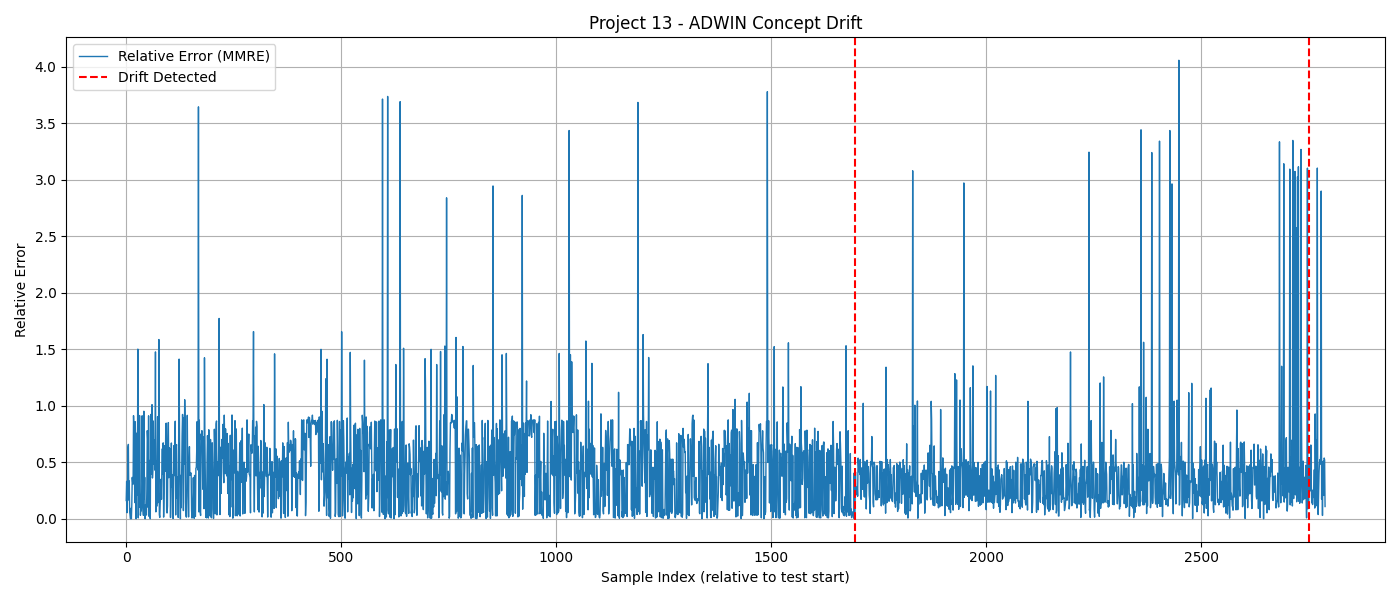
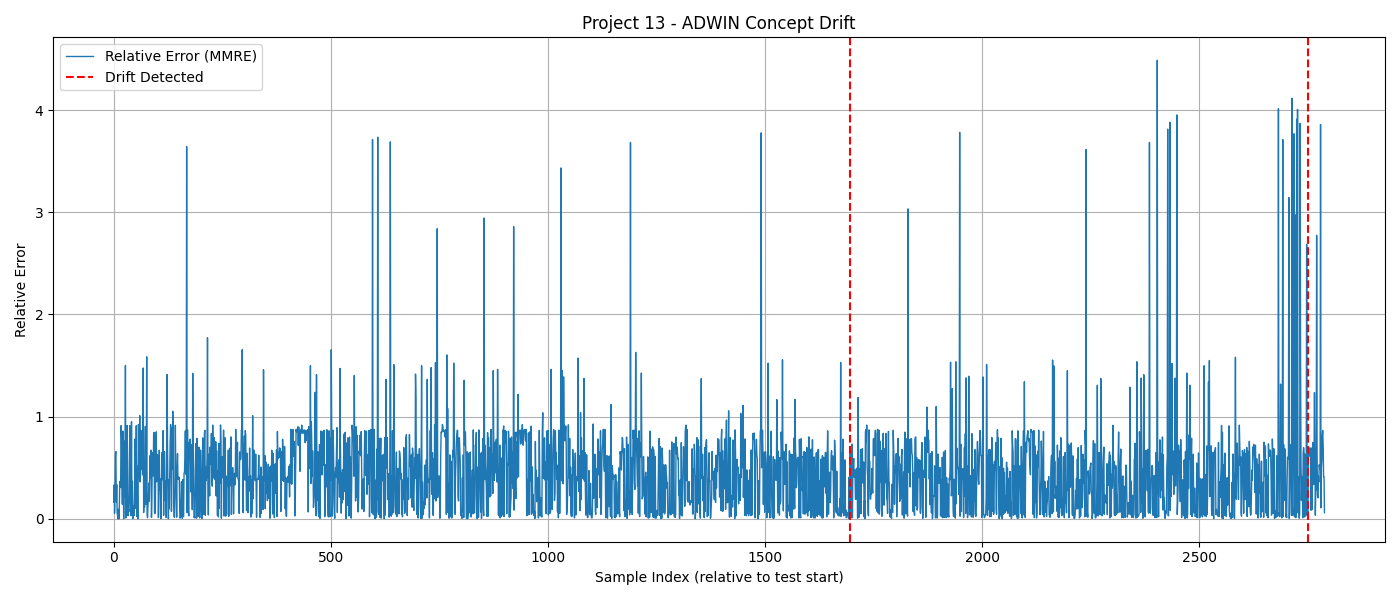
weight old model with adwin

diff --git a/adwin_retrain.py b/adwin_retrain.py
@@ -4,23 +4,23 @@ import numpy as np
 from sentence_transformers import SentenceTransformer
 from sklearn.preprocessing import OneHotEncoder
 from sklearn.ensemble import RandomForestRegressor
+from sklearn.base import clone
 from river.drift import ADWIN
 import matplotlib.pyplot as plt
 import warnings
 warnings.filterwarnings("ignore")
 
-# === Configuration ===
 project_numbers = [1, 3, 4, 5, 8, 11, 12, 13, 24, 25, 28, 29, 34, 36, 43]
 INPUT_FOLDER = "data/cleaned"
-RESULT_FOLDER = "results/concept_drift"
-INDEX_FILE = os.path.join(RESULT_FOLDER, "results_indexes.csv")
-COMPARE_FILE = os.path.join(RESULT_FOLDER, "drift_metrics_baseline.csv")
+RESULT_FOLDER = "results/concept_drift_retrain"
+INDEX_FILE = os.path.join(RESULT_FOLDER, "results_indexes_retrained.csv")
+COMPARE_FILE = os.path.join(RESULT_FOLDER, "drift_metrics_retrained.csv")
 INITIAL_TRAIN_SIZE = 100
 DELTA = 0.01
+OLD_MODEL_WEIGHT = 0.3
 BEFORE_WINDOW = 20
 AFTER_WINDOW = 20
 
-# === Setup ===
 os.makedirs(RESULT_FOLDER, exist_ok=True)
 sentence_model = SentenceTransformer("all-MiniLM-L6-v2")
 
@@ -28,24 +28,22 @@ with open(INDEX_FILE, "w") as f:
     f.write("Project,DriftIndexes\n")
 
 with open(COMPARE_FILE, "w") as f:
-    f.write("Project,DriftIndex,MeanErrorBefore,MeanErrorAfterNoRetrain\n")
+    f.write("Project,DriftIndex,MeanErrorBefore,MeanErrorAfterRetrain\n")
 
-# === Main Loop ===
 for project in project_numbers:
     filename = os.path.join(INPUT_FOLDER, f"issues_{project}.csv")
     if not os.path.exists(filename):
-        print(f"[!] Missing file: {filename}")
+        print(f"Missing file: {filename}")
         continue
 
-    print(f"[+] Processing Project {project}")
+    print(f"Processing Project {project}")
     df = pd.read_csv(filename, on_bad_lines="skip")
 
     if df.empty or len(df) <= INITIAL_TRAIN_SIZE:
-        print(f"[!] Skipping Project {project} - not enough data.")
+        print(f"Skipping Project {project} - not enough data.")
         continue
 
     try:
-        # === Feature Engineering ===
         sentences = [f"{t} {d}" for t, d in zip(df["Title"], df["Description"])]
         embeddings = sentence_model.encode(sentences, show_progress_bar=False)
 
@@ -58,21 +56,26 @@ for project in project_numbers:
         X_all = np.hstack((embeddings, type_encoded, priority_encoded))
         y_all = np.log1p(df["Result"].astype(float))
 
-        # === Model + Drift Detector ===
         model = RandomForestRegressor(n_estimators=100, random_state=42)
         adwin = ADWIN(delta=DELTA)
         errors = []
         drift_points = []
+        old_models = []
 
-        # === Initial Training ===
         X_train, y_train = X_all[:INITIAL_TRAIN_SIZE], y_all[:INITIAL_TRAIN_SIZE]
         model.fit(X_train, y_train)
 
-        # === Online Evaluation Loop ===
         for i in range(INITIAL_TRAIN_SIZE, len(X_all)):
             x_i = X_all[i].reshape(1, -1)
             y_true = y_all[i]
-            y_pred = model.predict(x_i)[0]
+
+            y_pred_new = model.predict(x_i)[0]
+
+            if old_models:
+                y_pred_old_avg = np.mean([m.predict(x_i)[0] for m in old_models])
+                y_pred = OLD_MODEL_WEIGHT * y_pred_old_avg + (1 - OLD_MODEL_WEIGHT) * y_pred_new
+            else:
+                y_pred = y_pred_new
 
             error = abs(np.expm1(y_true) - np.expm1(y_pred)) / np.expm1(y_true)
             errors.append(error)
@@ -83,38 +86,50 @@ for project in project_numbers:
                 drift_points.append(drift_idx)
 
                 before_errors = errors[-BEFORE_WINDOW:] if len(errors) >= BEFORE_WINDOW else errors
+                mean_before = np.mean(before_errors) if before_errors else np.nan
+
+                snapshot = clone(model)
+                snapshot.fit(X_train, y_train)
+                old_models.append(snapshot)
+
+                train_start = max(0, i - INITIAL_TRAIN_SIZE)
+                X_train, y_train = X_all[train_start:i], y_all[train_start:i]
+                model.fit(X_train, y_train)
 
                 after_errors = []
                 for j in range(i + 1, min(i + 1 + AFTER_WINDOW, len(X_all))):
                     x_j = X_all[j].reshape(1, -1)
                     y_j_true = y_all[j]
-                    y_j_pred = model.predict(x_j)[0]
+                    y_j_pred_new = model.predict(x_j)[0]
+
+                    if old_models:
+                        y_j_pred_old_avg = np.mean([m.predict(x_j)[0] for m in old_models])
+                        y_j_pred = OLD_MODEL_WEIGHT * y_j_pred_old_avg + (1 - OLD_MODEL_WEIGHT) * y_j_pred_new
+                    else:
+                        y_j_pred = y_j_pred_new
+
                     err_j = abs(np.expm1(y_j_true) - np.expm1(y_j_pred)) / np.expm1(y_j_true)
                     after_errors.append(err_j)
 
-                # === Save Comparison Metrics ===
-                mean_before = np.mean(before_errors) if before_errors else np.nan
                 mean_after = np.mean(after_errors) if after_errors else np.nan
 
                 with open(COMPARE_FILE, "a") as f:
                     f.write(f"{project},{drift_idx},{mean_before:.4f},{mean_after:.4f}\n")
 
-        # === Plot Errors ===
         plt.figure(figsize=(14, 6))
         plt.plot(errors, label="Relative Error (MMRE)", linewidth=1)
         for idx, dp in enumerate(drift_points):
             plt.axvline(x=dp, color='red', linestyle='--', label='Drift Detected' if idx == 0 else "")
         plt.xlabel("Sample Index (relative to test start)")
         plt.ylabel("Relative Error")
-        plt.title(f"Project {project} - ADWIN Concept Drift")
+        plt.title(f"Project {project} - ADWIN Concept Drift (Retrained)")
         plt.legend()
         plt.grid(True)
         plt.tight_layout()
-        plot_path = os.path.join(RESULT_FOLDER, f"issues_{project}.png")
+        plot_path = os.path.join(RESULT_FOLDER, f"issues_{project}_retrained.png")
         plt.savefig(plot_path)
         plt.close()
 
-        # === Save Drift Indexes ===
         with open(INDEX_FILE, "a") as f:
             drift_str = ";".join(map(str, drift_points))
             f.write(f"{project},{drift_str}\n")

diff --git a/model_over_time.py b/model_over_time.py
@@ -108,14 +108,13 @@ if __name__ == "__main__":
             all_results = []
 
             for percent in percentages:
-                print(f"\n--- Training on {percent}% oldest data ---")
+                print(f"\nTraining on {percent}% oldest data")
                 train_X, train_y = prepare_oldest_data(full_df, percent, type_ohe=type_ohe, priority_ohe=priority_ohe)
 
                 base_model = RandomForestRegressor(random_state=42)
                 validator = Validator(base_model)
                 best_model, metrics = validator.tune_and_validate(train_X, train_y, test_X, test_y, param_grid)
 
-                print("--- Metrics ---")
                 for name, val in metrics.items():
                     print(f"{name}: {val:.4f}")
 

diff --git a/preprocessing/3.py b/preprocessing/3.py
@@ -53,7 +53,7 @@ def process_and_route_rows(input_csv):
                 ),
                 axis=1
             )
-        else:  # result == "ps"
+        else:  
             df_prj['Story_Point'] = pd.to_numeric(df_prj['Story_Point'], errors='coerce')
             df_prj = df_prj[df_prj['Story_Point'].notna()]
             df_prj = df_prj[df_prj['Story_Point'] > 0]

diff --git a/model_sliding_window.py b/model_sliding_window.py
@@ -97,7 +97,6 @@ if __name__ == "__main__":
                 all_results = []
 
                 for i in range(num_chunks - 1):
-                    print(f"  Window {i+1}: Train on chunk {i}, Test on chunk {i+1}")
 
                     df_train = chunks[i]
                     df_test = chunks[i + 1]
